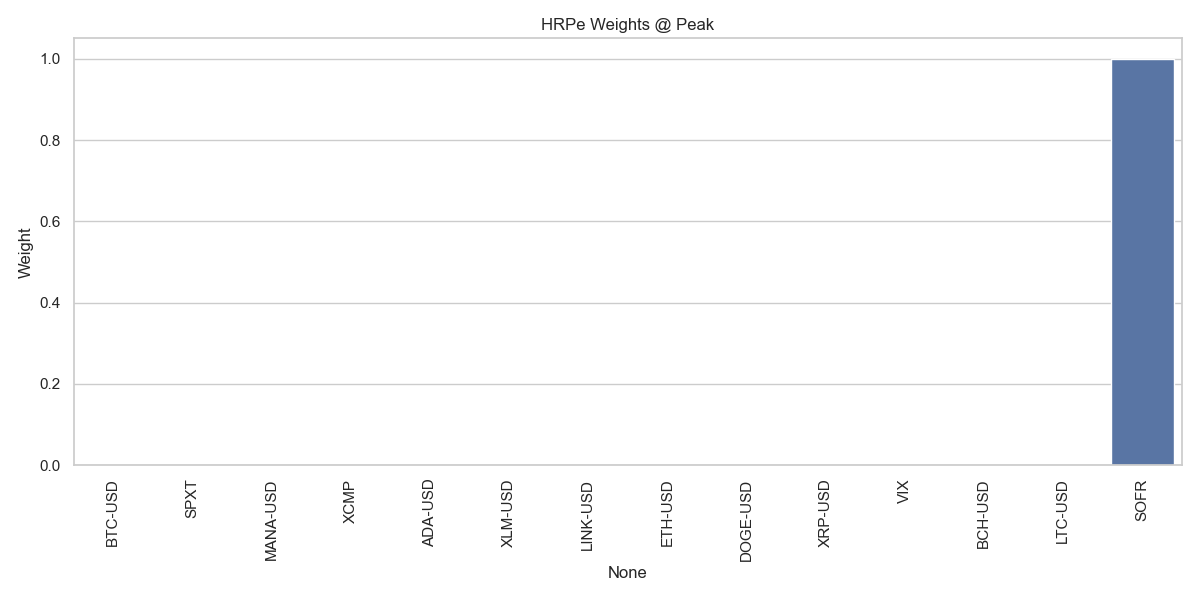
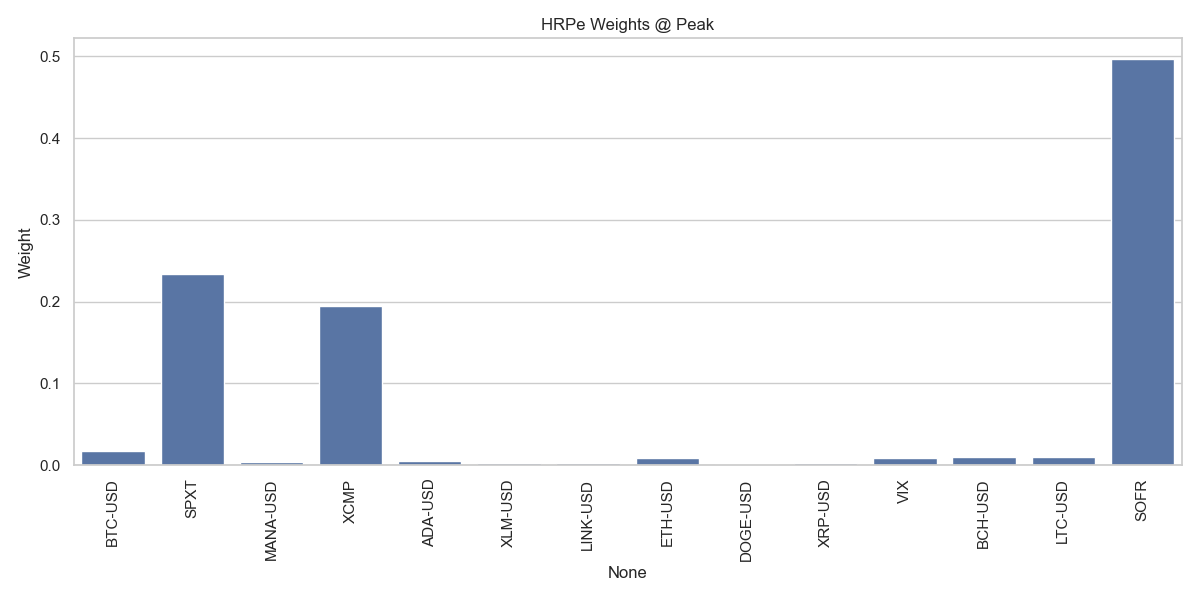
Update HRPe weight calculations and improve covariance handling in part4.py

diff --git a/src/part4.py b/src/part4.py
@@ -26,20 +26,27 @@ def build_hrpe(cfg: dict, log_returns: pd.DataFrame) -> pd.Series:
         # select lookback of log returns
         window = log_returns.loc[:date].tail(lookback)
 
+        # form & clean the rolling covariance
+        cov_raw = window.cov()
+        eigvals, eigvecs = np.linalg.eigh(cov_raw.values)
+        eigvals = np.clip(eigvals, 1e-4, None)
+        cov_clean = pd.DataFrame(
+            eigvecs @ np.diag(eigvals) @ eigvecs.T,
+            index=cov_raw.index,
+            columns=cov_raw.columns
+        )
+
         # compute δ1‐distance matrix
         dist = schweizer_wolf_distance(window)
 
-        # hierarchical clustering
+        # cluster & quasi‐diagonalize
         condensed = squareform(dist.values)
         link      = linkage(condensed, method="single")
+        order     = getQuasiDiag(link)
+        labels    = window.columns[order].tolist()
 
-        # get sorted index and then labels
-        order  = getQuasiDiag(link)
-        labels = window.columns[order].tolist()
-
-        # compute HRP on the *covariance* of window
-        cov    = window.cov()
-        w      = getRecBipart(cov, labels)
+        # compute HRP on the *clean covariance* of window
+        w = getRecBipart(cov_clean, labels)
 
         # save CSV and bar chart
         pd.Series(w, name="weight").to_csv(f"{out_dir}/weights_HRPe_{tag}.csv")
